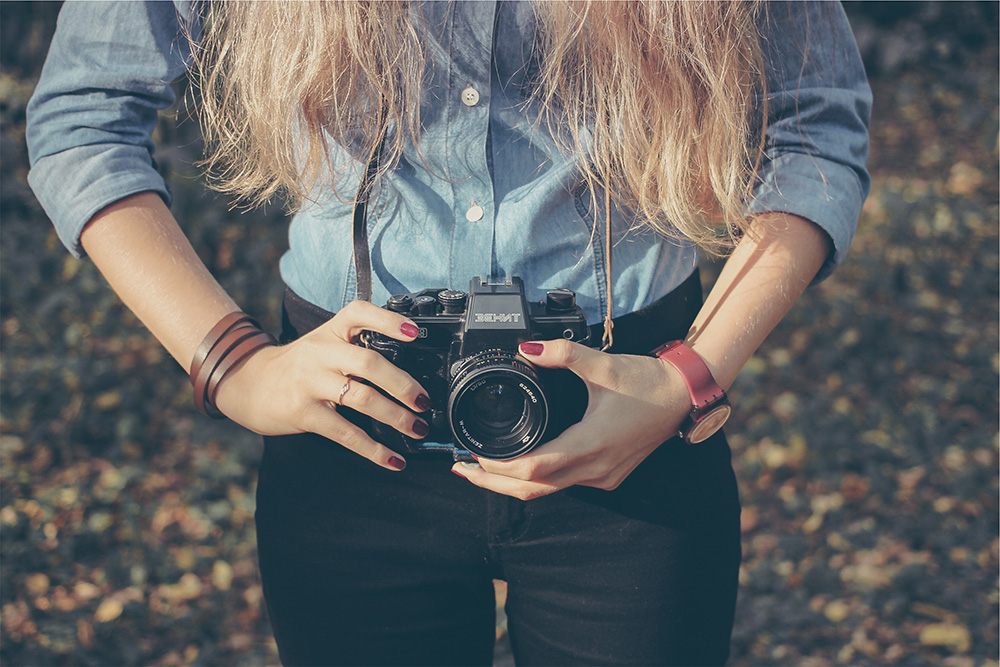
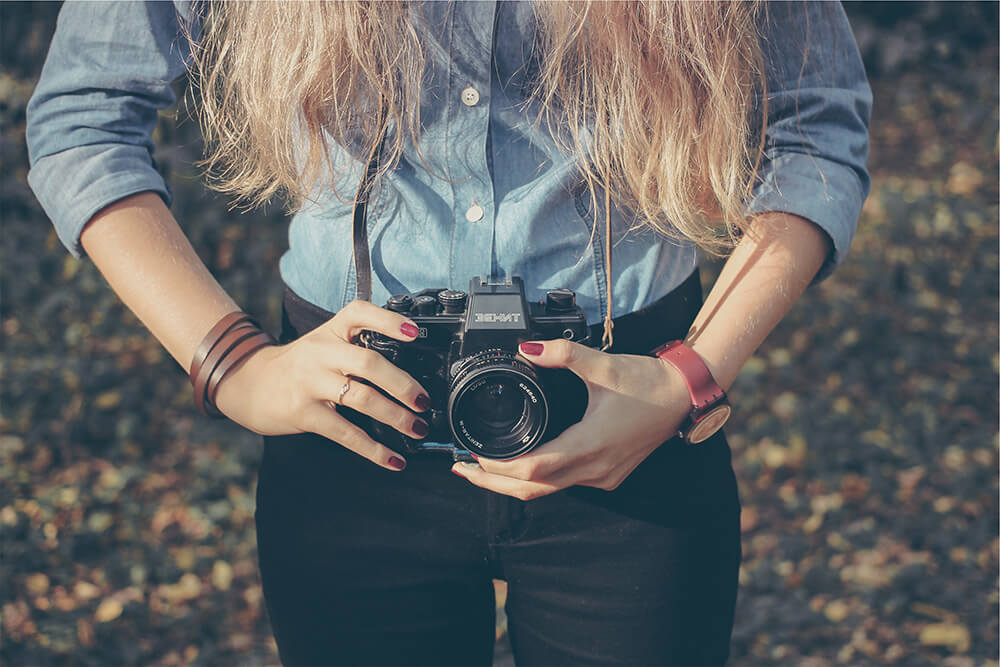
kompresowanie zdj

Changed region(s): [[0.217, 0.2099, 0.248, 0.2699], [0.186, 0.06, 0.217, 0.09]]

diff --git a/assets/Styles/style.scss b/assets/Styles/style.scss
@@ -102,6 +102,7 @@ body {
             width: 15px;
             height: 15px;
             margin: 0 .7rem;
+            cursor: pointer;
         }
     }
 

diff --git a/assets/Styles/style.css b/assets/Styles/style.css
@@ -111,6 +111,7 @@ body {
   width: 15px;
   height: 15px;
   margin: 0 .7rem;
+  cursor: pointer;
 }
 
 .navigation__icons:before {
